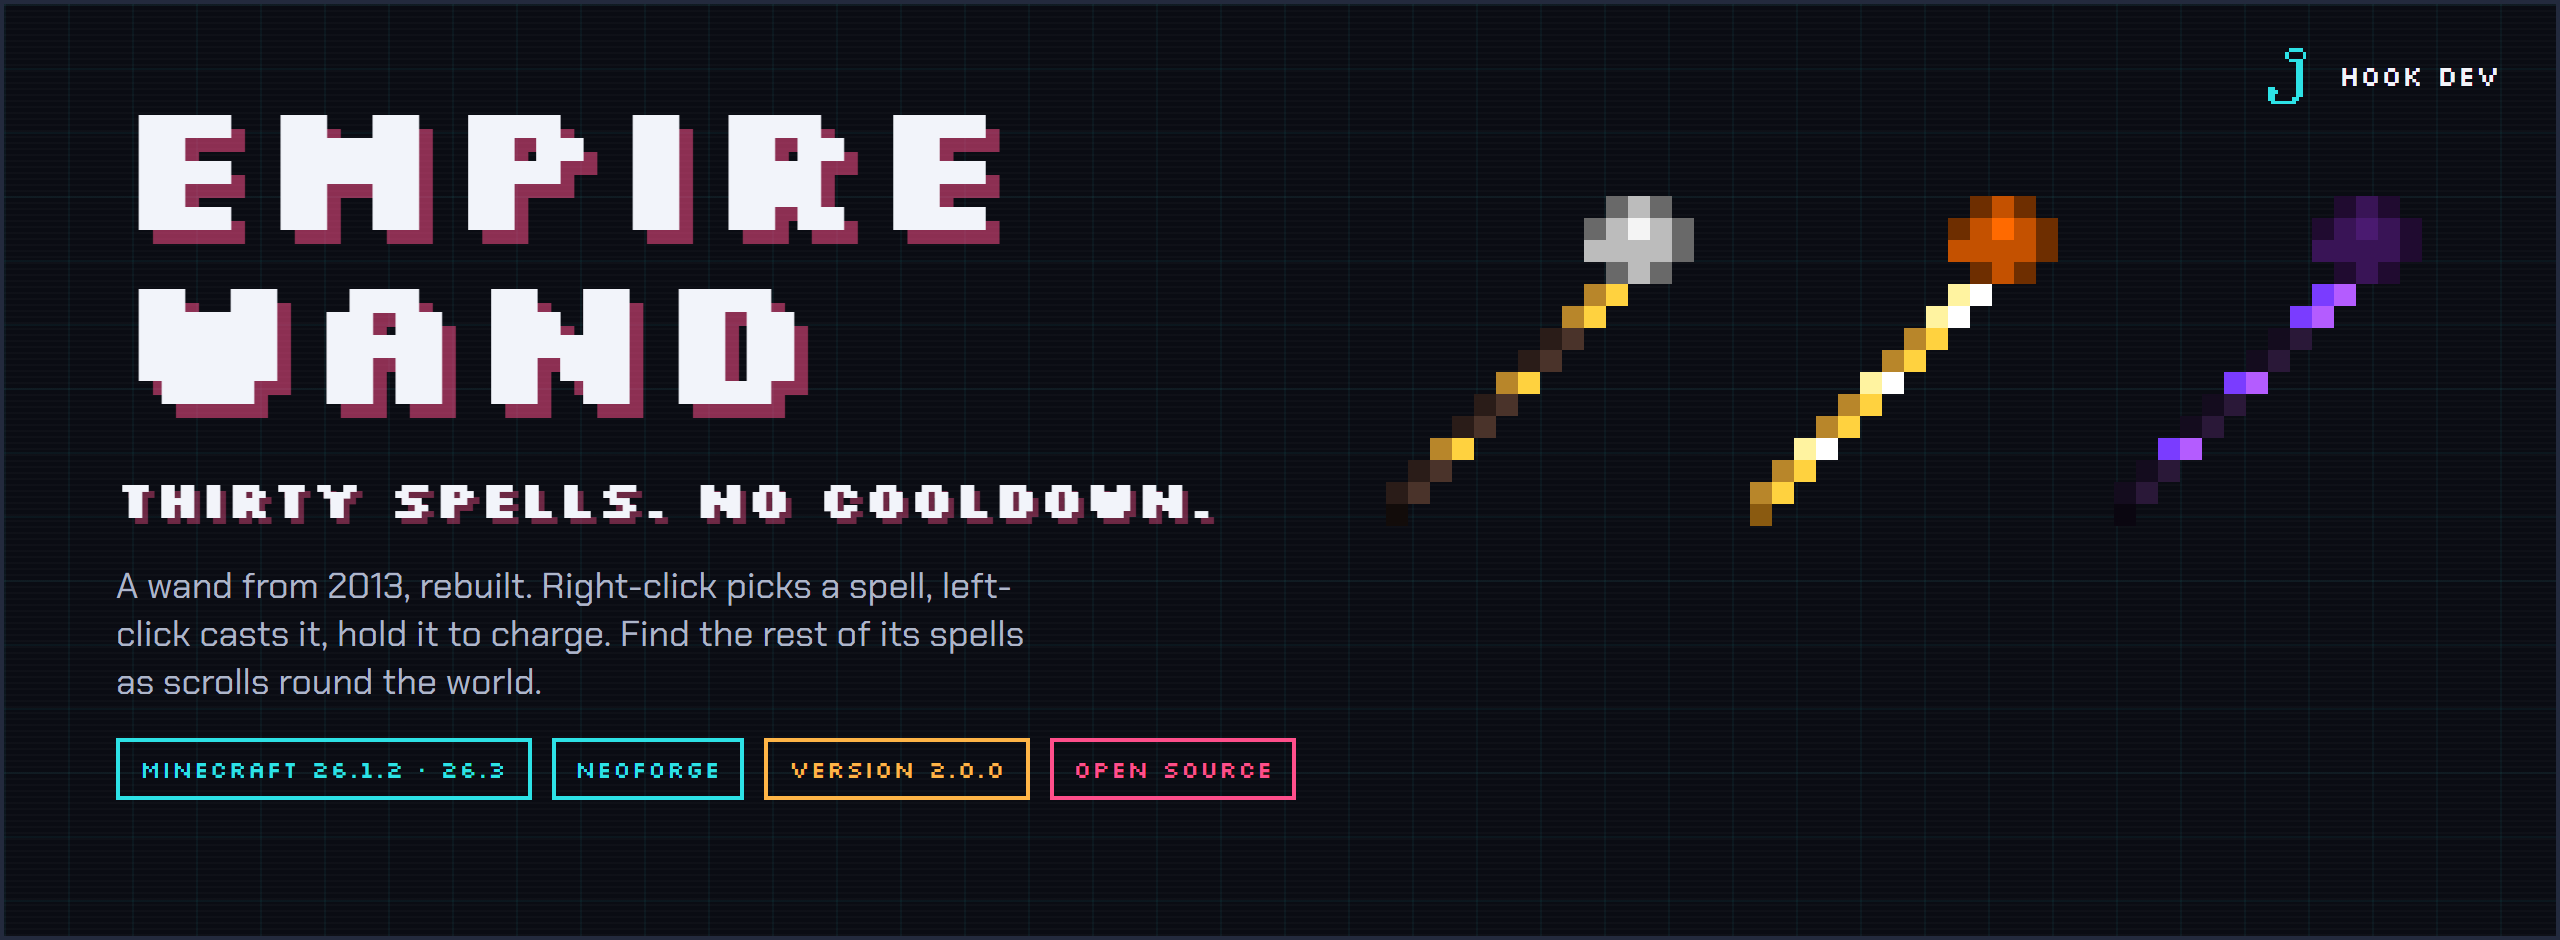
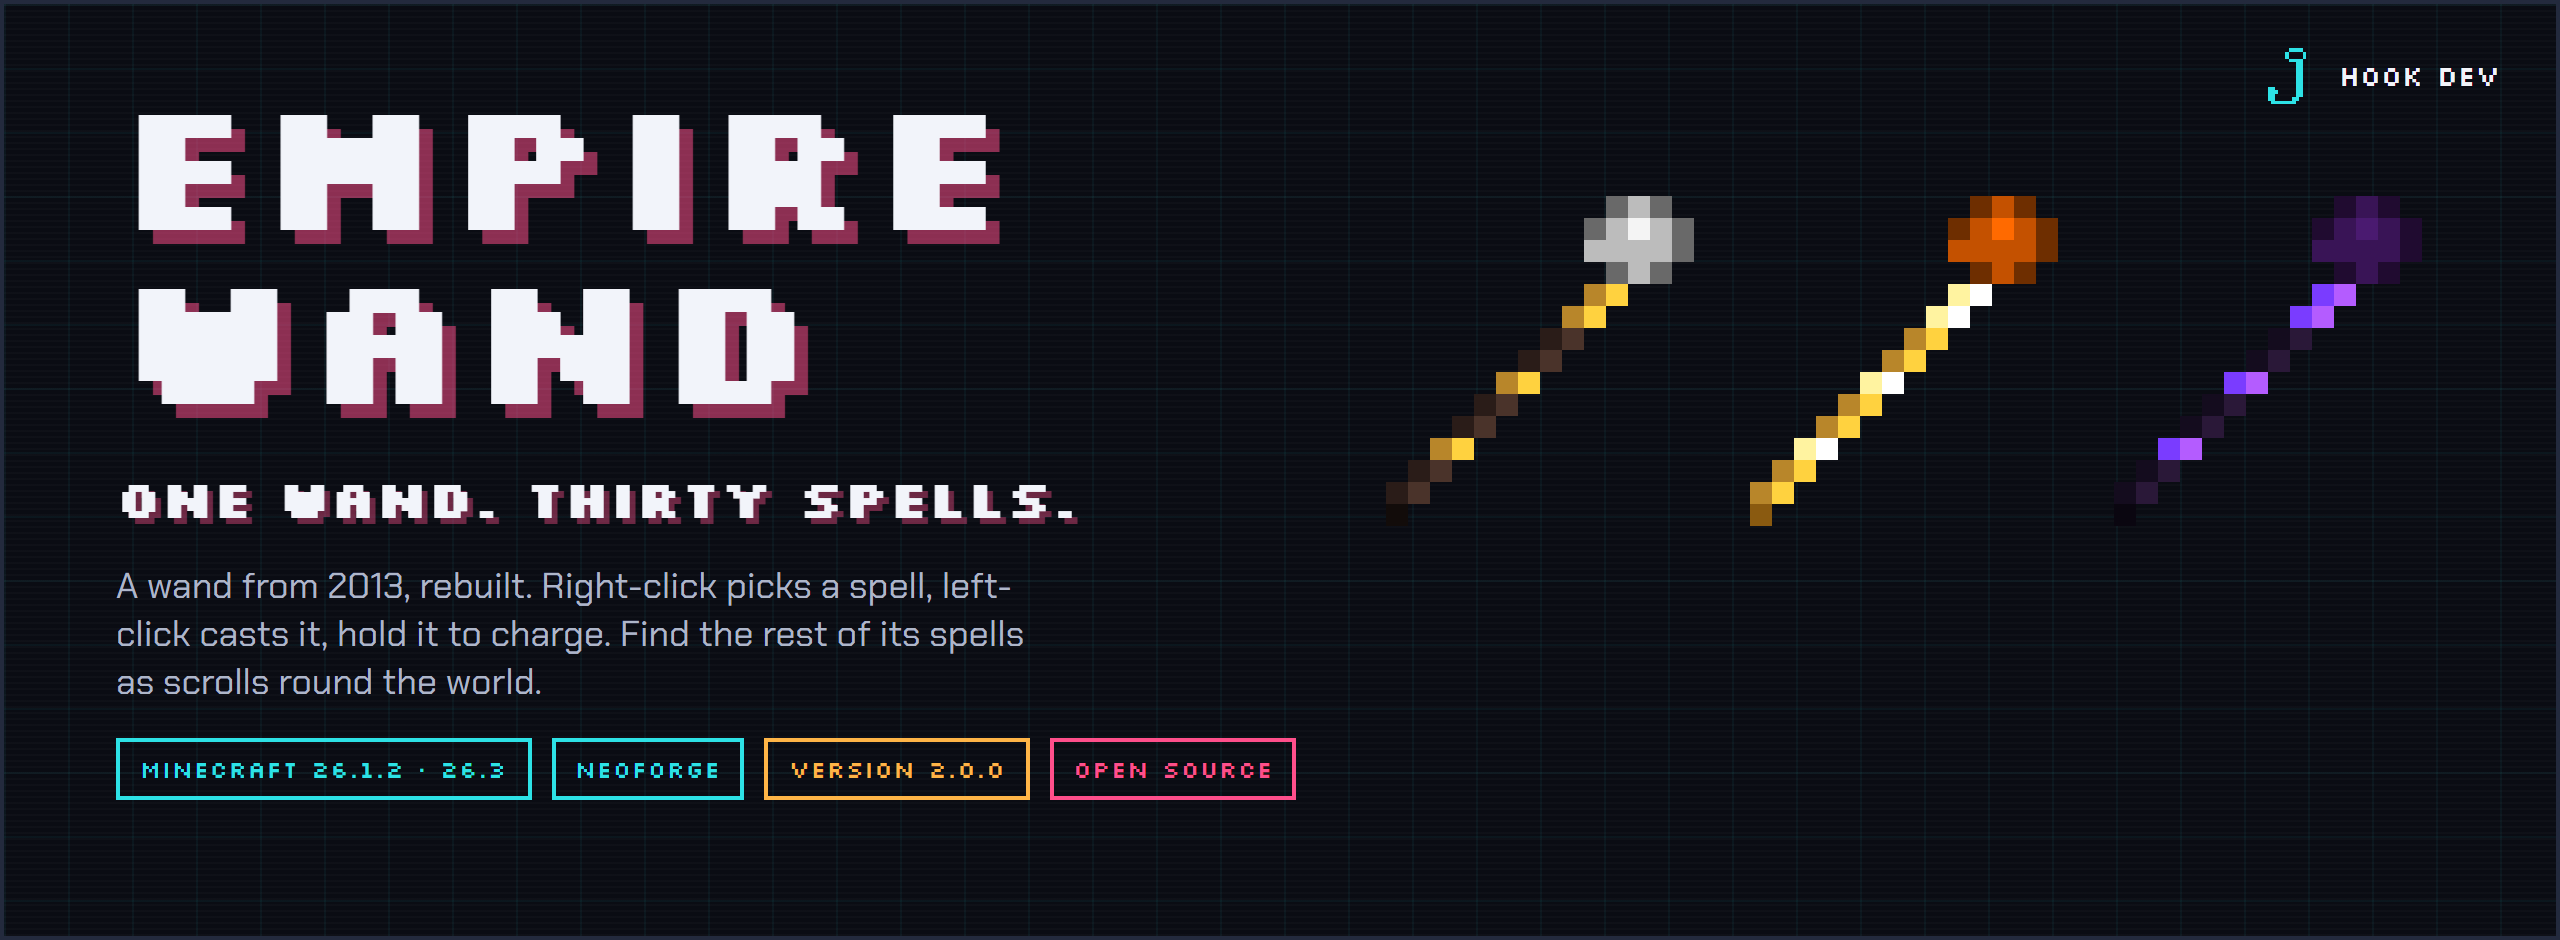
A cooldown after every spell (owner: without one it was far too strong): a second for a spark, up to fifteen for a black hole, half as long again when charged, none in creative; shown in the spellbook
Claude-Session: https://claude.ai/code/session_01KQXgr11Y44rM8FATjPeLox

Changed region(s): [[0.0312, 0.4936, 0.4688, 0.5553]]

diff --git a/src/main/java/io/hookdev/empirewand/Spell.java b/src/main/java/io/hookdev/empirewand/Spell.java
@@ -6,16 +6,16 @@ import net.minecraft.ChatFormatting;
 import net.minecraft.network.chat.Component;
 
 /**
- * Every spell, with its colour (the wand's crystal, its beam, its icon), and the order a wand goes through them with
+ * Every spell, with its colour (the wand's crystal, its beam, its icon) and its cooldown, and the order a wand goes through them with
  * right-click (the order of the 2013 plugin).
  */
 public enum Spell {
-    EXPLODE(0xF4F4F4), LIGHTNING_ARROW(0x00FFFF), ESCAPE(0xFF5A1F), LAUNCH(0x5A4BFF), LEAP(0xB45CFF), CONFUSE(0x9A2A9A), CAPTURE(0x3FE0A8),
-    LITTLE_SPARK(0xFFF27A), COMET(0xFFA500), SPARK(0xFF3B3B), JUMP(0xFF8C1A), POISON_WAVE(0x35D04A), EXPLOSIVE(0x3A3A3A), BLOOD_BLOCK(0xC0102A),
-    LIGHTNING_STORM(0x4FC8FF), BLOOD_WAVE(0x8B0000), BLOOD_SPARK(0xD0182E),
-    METEOR_SHOWER(0xFF6A00), CHAIN_LIGHTNING(0x9FD8FF), EARTHQUAKE(0x8B5A2B), TORNADO(0xC8D0D8),
-    ICE_WAVE(0x9FE8FF), FREEZE(0xBFF4FF), BLIZZARD(0xE8F8FF), BLINK(0x7A3CFF), BLACK_HOLE(0x4A1A70), LEVITATE(0xD8B0FF),
-    ROOTS(0x6B8E23), SPORES(0x9ACD32), OVERGROWTH(0x2E8B57);
+    EXPLODE(0xF4F4F4, 30), LIGHTNING_ARROW(0x00FFFF, 20), ESCAPE(0xFF5A1F, 60), LAUNCH(0x5A4BFF, 30), LEAP(0xB45CFF, 40), CONFUSE(0x9A2A9A, 40), CAPTURE(0x3FE0A8, 20),
+    LITTLE_SPARK(0xFFF27A, 25), COMET(0xFFA500, 20), SPARK(0xFF3B3B, 15), JUMP(0xFF8C1A, 80), POISON_WAVE(0x35D04A, 60), EXPLOSIVE(0x3A3A3A, 40), BLOOD_BLOCK(0xC0102A, 20),
+    LIGHTNING_STORM(0x4FC8FF, 200), BLOOD_WAVE(0x8B0000, 60), BLOOD_SPARK(0xD0182E, 20),
+    METEOR_SHOWER(0xFF6A00, 300), CHAIN_LIGHTNING(0x9FD8FF, 80), EARTHQUAKE(0x8B5A2B, 200), TORNADO(0xC8D0D8, 300),
+    ICE_WAVE(0x9FE8FF, 60), FREEZE(0xBFF4FF, 60), BLIZZARD(0xE8F8FF, 240), BLINK(0x7A3CFF, 40), BLACK_HOLE(0x4A1A70, 300), LEVITATE(0xD8B0FF, 80),
+    ROOTS(0x6B8E23, 60), SPORES(0x9ACD32, 120), OVERGROWTH(0x2E8B57, 100);
 
     /**
      * The Empire Wand's, the only wand (owner, 31 Oct 2026): the fifteen from 2013 (Flamethrower and Ender Egg are gone),
@@ -26,9 +26,12 @@ public enum Spell {
 
     /** Its colour, 0xRRGGBB. */
     public final int colour;
+    /** How long the wand cools down after it (owner, 31 Oct 2026: without one it was far too strong), in ticks. */
+    public final int cooldown;
 
-    Spell(int colour) {
+    Spell(int colour, int cooldown) {
         this.colour = colour;
+        this.cooldown = cooldown;
     }
 
     public String id() {

diff --git a/src/main/java/io/hookdev/empirewand/gametest/WandGameTests.java b/src/main/java/io/hookdev/empirewand/gametest/WandGameTests.java
@@ -56,6 +56,7 @@ public final class WandGameTests {
         test("a_gold_block_makes_it_gold", WandGameTests::aGoldBlockMakesItGold, 20);
         test("a_dark_mage_casts_at_you", WandGameTests::aDarkMageCastsAtYou, 200);
         test("the_wizard_tower_is_there", WandGameTests::theWizardTowerIsThere, 20);
+        test("the_wand_cools_down", WandGameTests::theWandCoolsDown, 20);
         test("every_spell_casts", WandGameTests::everySpellCasts, 600);
     }
 
@@ -304,6 +305,21 @@ public final class WandGameTests {
         var tower = io.hookdev.empirewand.McVersion.template(helper.getLevel(), EmpireWand.id("wizard_tower"));
         helper.assertTrue(tower.isPresent() && tower.get().getSize().getY() > 15, "the tower's template loads, " + tower.map(t -> t.getSize().toString()).orElse("none"));
         helper.assertTrue(helper.getLevel().registryAccess().lookupOrThrow(Registries.STRUCTURE).get(ResourceKey.create(Registries.STRUCTURE, EmpireWand.id("wizard_tower"))).isPresent(), "and it is a structure in the world");
+        helper.succeed();
+    }
+
+    private static void theWandCoolsDown(GameTestHelper helper) {
+        wall(helper);
+        ServerPlayer player = caster(helper);
+        player.setGameMode(net.minecraft.world.level.GameType.SURVIVAL);
+        player.setItemInHand(InteractionHand.MAIN_HAND, new ItemStack(Content.EMPIRE_WAND.get()));
+        helper.assertTrue(Spells.castFromWand(player, Content.EMPIRE_WAND.get(), 0), "the first cast goes");
+        helper.assertTrue(player.getCooldowns().isOnCooldown(player.getMainHandItem()), "then the wand cools down");
+        helper.assertFalse(Spells.castFromWand(player, Content.EMPIRE_WAND.get(), 0), "and a second cast right away does not go");
+        player.setGameMode(net.minecraft.world.level.GameType.CREATIVE);
+        player.getCooldowns().removeCooldown(Content.EMPIRE_WAND.getId());
+        Spells.castFromWand(player, Content.EMPIRE_WAND.get(), 0);
+        helper.assertFalse(player.getCooldowns().isOnCooldown(player.getMainHandItem()), "in creative: no cooldown");
         helper.succeed();
     }
 

diff --git a/src/main/java/io/hookdev/empirewand/Spells.java b/src/main/java/io/hookdev/empirewand/Spells.java
@@ -60,6 +60,20 @@ public final class Spells {
         cast(player, spell, 1);
     }
 
+    /**
+     * A left-click with the wand: its spell, unless the wand is still cooling down; then the wand cools down for as long
+     * as the spell says (half as long again after a charged cast). Not in creative.
+     */
+    public static boolean castFromWand(ServerPlayer player, WandItem wand, int charge) {
+        var stack = player.getMainHandItem();
+        if (player.getCooldowns().isOnCooldown(stack)) return false;
+        Spell spell = wand.spell(stack);
+        boolean charged = charge >= CastSpell.FULL;
+        cast(player, spell, charged ? CHARGED : 1);
+        if (!player.getAbilities().instabuild) player.getCooldowns().addCooldown(stack, Math.round(spell.cooldown * (charged ? 1.5f : 1)));
+        return true;
+    }
+
     /** How much stronger a fully charged cast is (hold left-click a second). */
     public static final float CHARGED = 1.6f;
     /** The power of the spell being cast now: 1, or CHARGED. */

diff --git a/src/main/java/io/hookdev/empirewand/client/SpellbookScreen.java b/src/main/java/io/hookdev/empirewand/client/SpellbookScreen.java
@@ -74,6 +74,10 @@ public class SpellbookScreen extends Screen {
             if (has) g.blit(WheelScreen.icon(spell), x, y, x + 16, y + 16, 0, 1, 0, 1);
             else g.text(font, "?", x + 5, y + 4, FADED, false);
             g.text(font, has ? Component.translatable("spell.empirewand." + spell.id()) : Component.literal("???"), x + 20, y + 4, has ? INK : FADED, false);
+            if (has) { // its cooldown, at the right
+                String cooldown = String.format(java.util.Locale.ROOT, "%.1f s", spell.cooldown / 20f);
+                g.text(font, cooldown, x + CELL_W - font.width(cooldown), y + 4, FADED, false);
+            }
             Component text = has ? Component.translatable("spell.empirewand." + spell.id() + ".desc")
                     : Component.translatable("screen.empirewand.spellbook.found", places(spell));
             g.textWithWordWrap(font, text, x, y + 19, CELL_W, has ? INK : FADED);

diff --git a/src/main/java/io/hookdev/empirewand/CastSpell.java b/src/main/java/io/hookdev/empirewand/CastSpell.java
@@ -23,7 +23,7 @@ public record CastSpell(int charge) implements CustomPacketPayload {
 
     public static void handle(CastSpell message, IPayloadContext context) {
         if (context.player() instanceof ServerPlayer player && player.getMainHandItem().getItem() instanceof WandItem wand && player.isAlive()) {
-            Spells.cast(player, wand.spell(player.getMainHandItem()), message.charge() >= FULL ? Spells.CHARGED : 1);
+            Spells.castFromWand(player, wand, message.charge());
         }
     }
 }

diff --git a/src/main/java/io/hookdev/empirewand/client/EmpireWandClient.java b/src/main/java/io/hookdev/empirewand/client/EmpireWandClient.java
@@ -45,6 +45,7 @@ public class EmpireWandClient {
         var player = Minecraft.getInstance().player;
         if (!event.isAttack() || player == null || !(player.getMainHandItem().getItem() instanceof WandItem)) return;
         event.setCanceled(true);
+        if (player.getCooldowns().isOnCooldown(player.getMainHandItem())) return; // still cooling down: nothing
         event.setSwingHand(true);
         if (charge < 0) charge = 0;
     }

diff --git a/README.md b/README.md
@@ -1,5 +1,5 @@
 <p align="center">
-  <img src=".github/readme/banner.png" width="100%" alt="Empire Wand: thirty spells, no cooldown. EMPIRE WAND in pixel letters next to a classic, a gold and an obsidian Empire Wand.">
+  <img src=".github/readme/banner.png" width="100%" alt="Empire Wand: one wand, thirty spells. EMPIRE WAND in pixel letters next to a classic, a gold and an obsidian Empire Wand.">
 </p>
 
 <p align="center">
@@ -20,7 +20,7 @@
 
 Empire Wand is a Minecraft mod about one wand and thirty spells. It started in 2013 as a Bukkit plugin for
 Minecraft 1.7.2; now it is back, rebuilt for NeoForge, with every spell from back then and plenty of new ones.
-There is no cooldown and no mana: spamming spells is the whole idea.
+No mana: after each spell the wand cools down for a moment, a second for a spark, up to fifteen for a black hole.
 
 **One wand, thirty spells.** Right-click picks the next spell, left-click casts it. Hold left-click for a second and
 the cast is charged: bigger, stronger, further. Every spell has its colour: the wand's crystal takes it on, and a beam
@@ -64,6 +64,12 @@ plugin. The fireworks burst right on the spot, as they did back then.
 ### New spells
 Meteor Shower, Chain Lightning, Earthquake and Tornado; Blood Wave and Blood Spark; Ice Wave, Freeze and Blizzard;
 Blink, Black Hole and Levitate; Roots, Spores and Overgrowth.
+
+### Cooldowns
+After a spell the wand cools down, as an ender pearl does: about a second after the light ones (Spark, Comet,
+Capture), a few seconds after Explode, Leap or Ice Wave, ten to fifteen after the heavy ones (Meteor Shower, Black
+Hole, Tornado, Lightning Storm, Earthquake). A charged cast takes half as long again. The spellbook shows each one.
+No cooldown in creative.
 
 ### Combos
 Some spells work together. A blast near something frozen shatters it (**Shatter**). Chain Lightning while your Tornado

diff --git a/CLAUDE.md b/CLAUDE.md
@@ -8,7 +8,7 @@ The original jar is in this folder (`empire_V1.1.jar`, ignored by git: it stays 
 - **Public since 31 Oct 2026** (owner): https://github.com/ParadiseArchive/empire-wand, GPL-3.0-only (LICENSE), the GitHub layout of Setpoint and Bleep (README with pictures from tools/readme-art.mjs, build, secret scan and publish workflows, release/changelog and release/curseforge). Next: CurseForge (the owner makes the project and the CURSEFORGE secret; its id goes in publish.yml). Ask the owner before every release. Not on hookdev.io yet.
 - **Privacy:** never put the owner's name, old usernames or job in the code, the repository or anything published. The 2013 jar's package name holds an old username: it never goes into this code (the mod is `io.hookdev.empirewand`, author Hook Development).
 - **Secrets** (as in hook-development and Setpoint): never commit a token, key, password or .env file. `.gitignore` blocks them; `.git/hooks/pre-commit` (copied from Bleep, not in git) refuses secret-looking files.
-- Owner's choices (31 Oct 2026): the wands are crafted (no commands); explosions break blocks; the firework effects stay; no cooldown, spamming spells is the whole idea.
+- Owner's choices (31 Oct 2026): the wands are crafted (no commands); explosions break blocks; the firework effects stay; no cooldown, spamming spells is the whole idea (changed the same night, owner: "otherwise it is super overpowered": a cooldown per spell, Spell.cooldown, the vanilla item cooldown on the wand, x1.5 after a charged cast, none in creative; Spells.castFromWand).
 - Do not build while the owner's Minecraft is open.
 
 ## Technical

diff --git a/release/curseforge/description.md b/release/curseforge/description.md
@@ -1,15 +1,16 @@
 # Empire Wand
 
-![Empire Wand: thirty spells, no cooldown](https://raw.githubusercontent.com/ParadiseArchive/empire-wand/v2.0.0/.github/readme/banner.png)
+![Empire Wand: one wand, thirty spells](https://raw.githubusercontent.com/ParadiseArchive/empire-wand/v2.0.0/.github/readme/banner.png)
 
-**One wand, thirty spells, no cooldown.**
+**One wand, thirty spells.**
 
-Empire Wand started in 2013 as a Bukkit plugin for Minecraft 1.7.2. Now it is back, rebuilt for NeoForge, with every spell from back then and plenty of new ones. There is no cooldown and no mana: spamming spells is the whole idea.
+Empire Wand started in 2013 as a Bukkit plugin for Minecraft 1.7.2. Now it is back, rebuilt for NeoForge, with every spell from back then and plenty of new ones. No mana: after each spell the wand cools down for a moment, from a second after a spark to fifteen after a black hole.
 
 ## How it works
 
 - **Right-click** picks the next spell, **left-click** casts it.
 - **Hold left-click** for a second: a charged cast, bigger, stronger and further.
+- **A cooldown** after each spell (shown on the wand, as with ender pearls): short for the light spells, long for the heavy ones.
 - **The spell wheel:** press R for all its spells in two rings; put your favourites on the keys 1 to 5, or sneak and scroll.
 - Every spell has its colour: the wand's crystal takes it on, and a beam of sparks runs from its tip to where the spell lands.
 

diff --git a/release/changelog/2.0.0.md b/release/changelog/2.0.0.md
@@ -1,7 +1,7 @@
 The Empire Wand is back: the Bukkit plugin from 2013, rebuilt for NeoForge (Minecraft 26.3 and 26.1.2).
 
 - **Thirty spells.** The fifteen from 2013 (Explode, Lightning Arrow, Escape, Launch, Leap, Confuse, Capture, Little Spark, Comet, Spark, Jump, Poison Wave, Explosive, Blood Block, Lightning Storm) and fifteen new ones, from Meteor Shower to Black Hole.
-- **No cooldown.** Right-click picks a spell, left-click casts it; hold left-click to charge a bigger cast.
+- **Right-click** picks a spell, **left-click** casts it; hold left-click to charge a bigger cast. After each spell the wand cools down: a second for a spark, up to fifteen for a black hole.
 - **The spell wheel** (R), favourites on 1 to 5, sneak and scroll.
 - **Spell scrolls** in chests, vaults, suspicious blocks and on mobs, each place with its kind of spell; sealed scrolls from librarians.
 - **Combos:** Shatter, Storm, Toxic Tornado.
